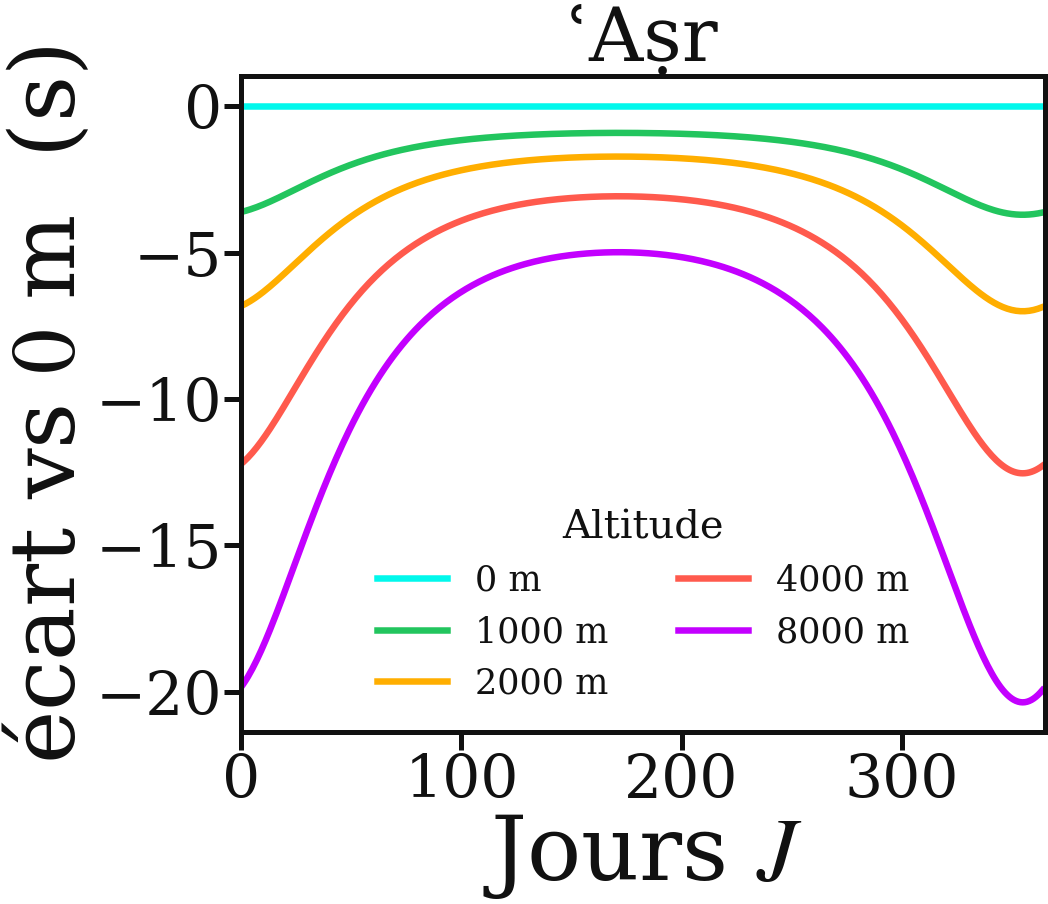
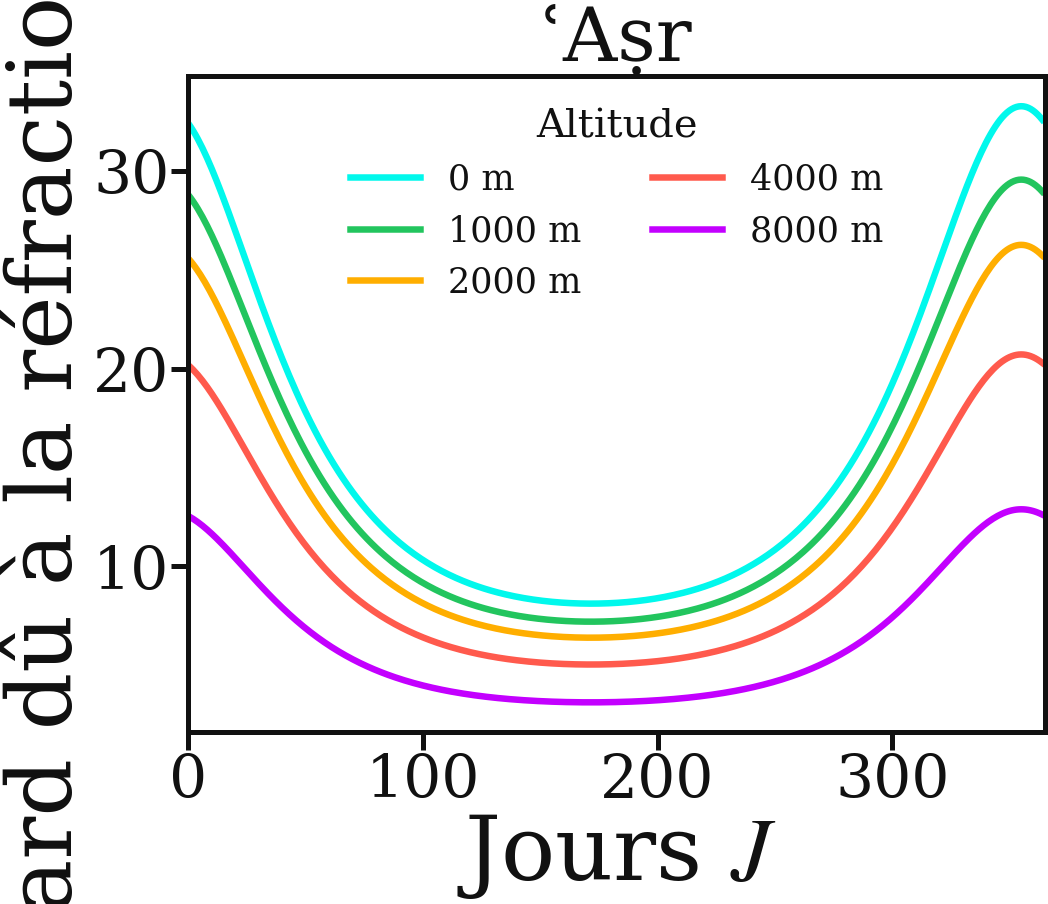
Graphe ʿAṣr : axe = retard dû à la réfraction (s), positif et explicite (au lieu de l'écart vs 0 m) ; reproduit la Table 1 d'Özlem ; captions FR/EN

diff --git a/scripts/figures/refraction_prieres.py b/scripts/figures/refraction_prieres.py
@@ -63,20 +63,25 @@ def f_refrac(alt):
     P_alt = 1013.0 * math.exp(-alt / 8400.0)
     return (P_alt / 1010.0) * (283.0 / (273.0 + T))
 
-def asr_corrected(alt):
-    """Altitude vraie corrigée du ʿAṣr (deg), réfraction échelonnée par l'altitude."""
-    f = f_refrac(alt)
+def asr_angle(f):
+    """Altitude vraie du ʿAṣr (deg) pour un facteur de réfraction f (f=0 → géométrique)."""
     Z  = 90.0 - np.degrees(np.abs(phi - dl))                         # hauteur vraie au midi
     Zp = Z + f * 0.017 / np.tan(np.radians(Z + 10.3/(Z + 5.11)))     # apparente (Sæmundsson)
     Ap = np.degrees(np.arctan(1.0 / (1.0/np.tan(np.radians(Zp)) + ASR_T)))  # ʿAṣr apparent
     return Ap - f * (1.0/np.tan(np.radians(Ap + 7.31/(Ap + 4.4)))) / 60.0    # vrai (Bennett)
 
+# Heure du ʿAṣr SANS réfraction (référence géométrique, identique pour toute altitude)
+asr_time_geom = dhuhr + H_for(asr_angle(0.0)) / 15.0
+
+def asr_delay_seconds(alt):
+    """Retard du ʿAṣr dû à la réfraction (s) à une altitude donnée (réfraction ∝ pression)."""
+    t = dhuhr + H_for(asr_angle(f_refrac(alt))) / 15.0
+    return (t - asr_time_geom) * 3600.0
+
 def times(prayer, alt):
     if prayer == "Chourouq":
         return dhuhr - H_for(horizon_alt(alt))/15.0
-    if prayer == "Maghrib":
-        return dhuhr + H_for(horizon_alt(alt))/15.0
-    return dhuhr + H_for(asr_corrected(alt))/15.0      # ʿAṣr (réfraction ∝ pression(alt))
+    return dhuhr + H_for(horizon_alt(alt))/15.0      # Maghrib
 
 TITRES = {"Chourouq": "Chourouq (lever)", "Maghrib": "Maghrib (coucher)", "Asr": "ʿAṣr"}
 COLS   = ["#01f8ec", "#22c55e", "#ffae00", "#ff5a4d", "#c300ff"]
@@ -93,13 +98,13 @@ def make(prayer, dark):
     ax.tick_params(axis='both', length=35, width=10)
 
     if prayer == "Asr":
-        # À l'échelle de l'heure, l'altitude est invisible (effet de quelques s) :
-        # on trace donc l'ÉCART (en secondes) par rapport au niveau de la mer, où
-        # les altitudes se distinguent nettement.
-        ref = times("Asr", 0)
+        # À l'échelle de l'heure, l'effet de l'altitude est invisible (quelques s).
+        # On trace donc le RETARD du ʿAṣr dû à la réfraction (ʿAṣr réel − ʿAṣr sans
+        # réfraction), en secondes : il est positif, et diminue avec l'altitude
+        # (moins de pression → moins de réfraction).
         for alt, col in zip(ALTITUDES, COLS):
-            ax.plot(N, (times("Asr", alt) - ref) * 3600.0, color=col, label=f"{alt} m")
-        ax.set_ylabel(r"écart vs $0$ m  (s)")
+            ax.plot(N, asr_delay_seconds(alt), color=col, label=f"{alt} m")
+        ax.set_ylabel(r"retard dû à la réfraction  (s)")
     else:
         for alt, col in zip(ALTITUDES, COLS):
             ax.plot(N, times(prayer, alt), color=col, label=f"{alt} m")

diff --git a/src/content/projects/tawqit.en.md b/src/content/projects/tawqit.en.md
@@ -643,17 +643,18 @@ year, at Roubaix ($50.7^\circ$ N):
 *Time for five site elevations ($0$ to $8000$ m). The higher you stand, the lower
 the horizon drops: *Maghrib* is **delayed** and *Shurūq* **advanced** by several
 minutes in the mountains. *ʿAṣr*, set by the shadow and not by the horizon, is
-nearly insensitive: at the hour scale the curves coincide, so we plot its **shift
-in seconds** relative to sea level (third graph). This shift, due to refraction
-alone (∝ pressure, hence ∝ altitude), stays under ~$20$ s at $8000$ m and deepens
-in winter.*
+nearly insensitive: at the hour scale the curves coincide, so we plot the **delay
+(in seconds)** that refraction imposes on it — i.e. how far the real *ʿAṣr* falls
+**after** the purely geometric one (third graph). This delay reaches ~$30$ s at sea
+level in winter and **shrinks with altitude** (less pressure → less refraction), as
+it does in summer.*
 
 - **Maghrib & Shurūq** — the Sun grazes the horizon: the site's elevation
   **lowers the horizon** and **shifts the time by several minutes** — *Maghrib*
   delayed, sunrise advanced, more so the higher you go.
 - **ʿAṣr** — its time is set by the **shadow** length, not by the horizon:
-  elevation only acts **through refraction** (∝ pressure), for a few seconds
-  (third graph) — negligible in practice.
+  refraction **delays** it by at most a few tens of seconds (third graph), and that
+  delay shrinks with altitude — negligible in practice.
 - **Fajr & ʿIshāʾ** — defined by a chosen **depression angle** ($18^\circ$, etc.),
   they already implicitly fold in the observation conditions.
 

diff --git a/src/content/projects/tawqit.fr.md b/src/content/projects/tawqit.fr.md
@@ -666,16 +666,17 @@ horaire au fil de l'année, à Roubaix ($50{,}7^\circ$ N) :
 l'horizon s'abaisse : le *Maghrib* est **retardé** et le *Chourouq* **avancé** de
 plusieurs minutes en montagne. L'*ʿAṣr*, fixé par l'ombre et non par l'horizon, est
 quasi insensible : à l'échelle de l'heure les courbes se confondent, on trace donc
-son **écart en secondes** par rapport au niveau de la mer (3ᵉ graphe). Cet écart,
-dû à la seule réfraction (∝ pression, donc ∝ altitude), ne dépasse pas ~$20$ s à
-$8000$ m, et se creuse en hiver.*
+le **retard** (en secondes) que la réfraction impose au ʿAṣr — c'est-à-dire de
+combien le ʿAṣr réel tombe **après** le ʿAṣr purement géométrique (3ᵉ graphe). Ce
+retard atteint ~$30$ s au niveau de la mer en hiver, et **diminue avec l'altitude**
+(moins de pression → moins de réfraction) comme en été.*
 
 - **Maghrib & Chourouq** — le Soleil frôle l'horizon : l'altitude du lieu
   **abaisse l'horizon** et **décale l'horaire de plusieurs minutes** — le
   *Maghrib* est retardé, le *Chourouq* avancé, d'autant plus qu'on monte haut.
 - **ʿAṣr** — son heure est fixée par la longueur de l'**ombre**, pas par
-  l'horizon : l'altitude ne joue **qu'au travers de la réfraction** (∝ pression),
-  pour quelques secondes seulement (3ᵉ graphe) — négligeable en pratique.
+  l'horizon : la réfraction le **retarde** de quelques dizaines de secondes au
+  plus (3ᵉ graphe), et ce retard diminue avec l'altitude — négligeable en pratique.
 - **Fajr & ʿIshāʾ** — définis par un **angle de dépression** choisi ($18^\circ$,
   etc.), ils intègrent déjà implicitement les conditions d'observation.
 